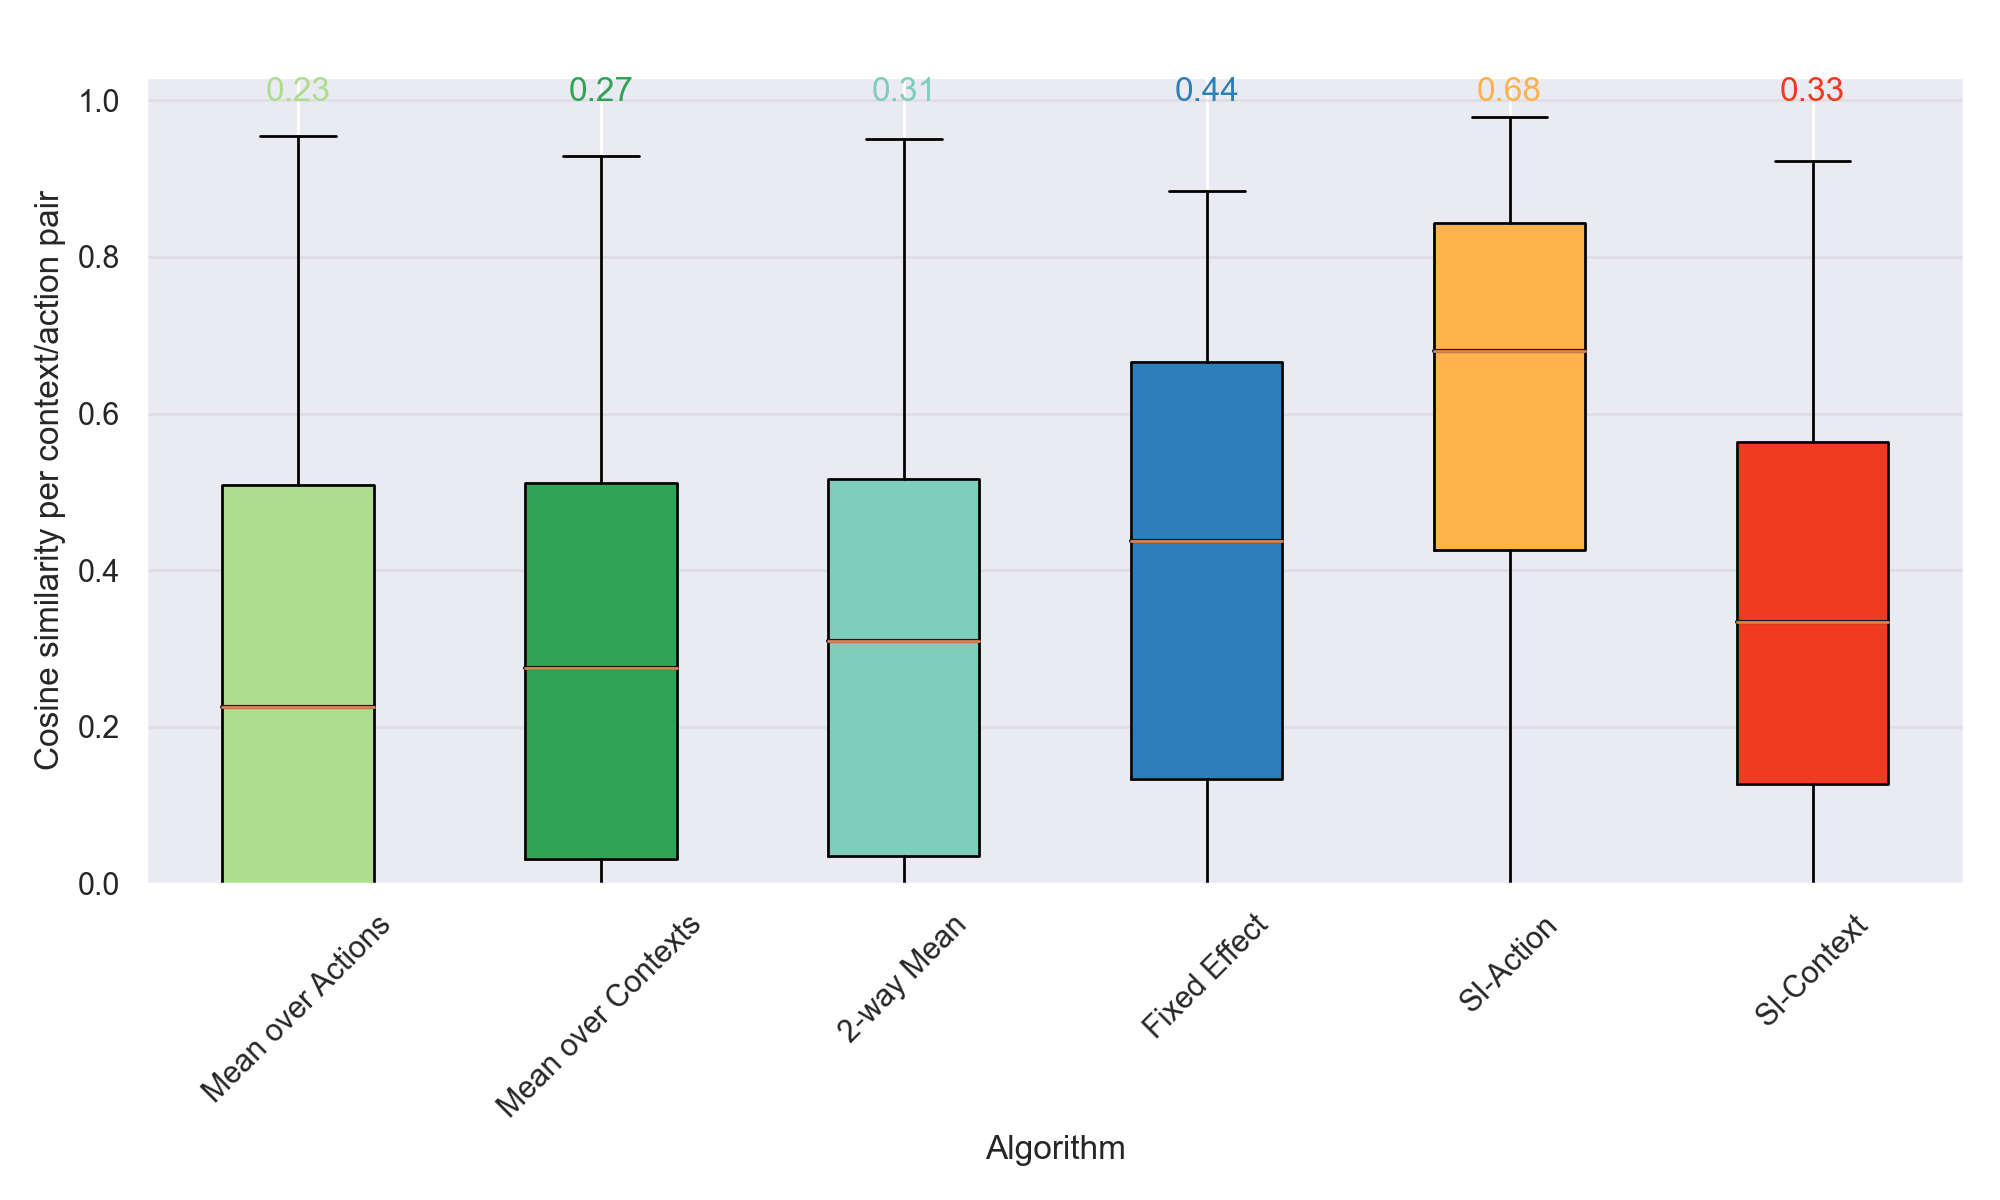
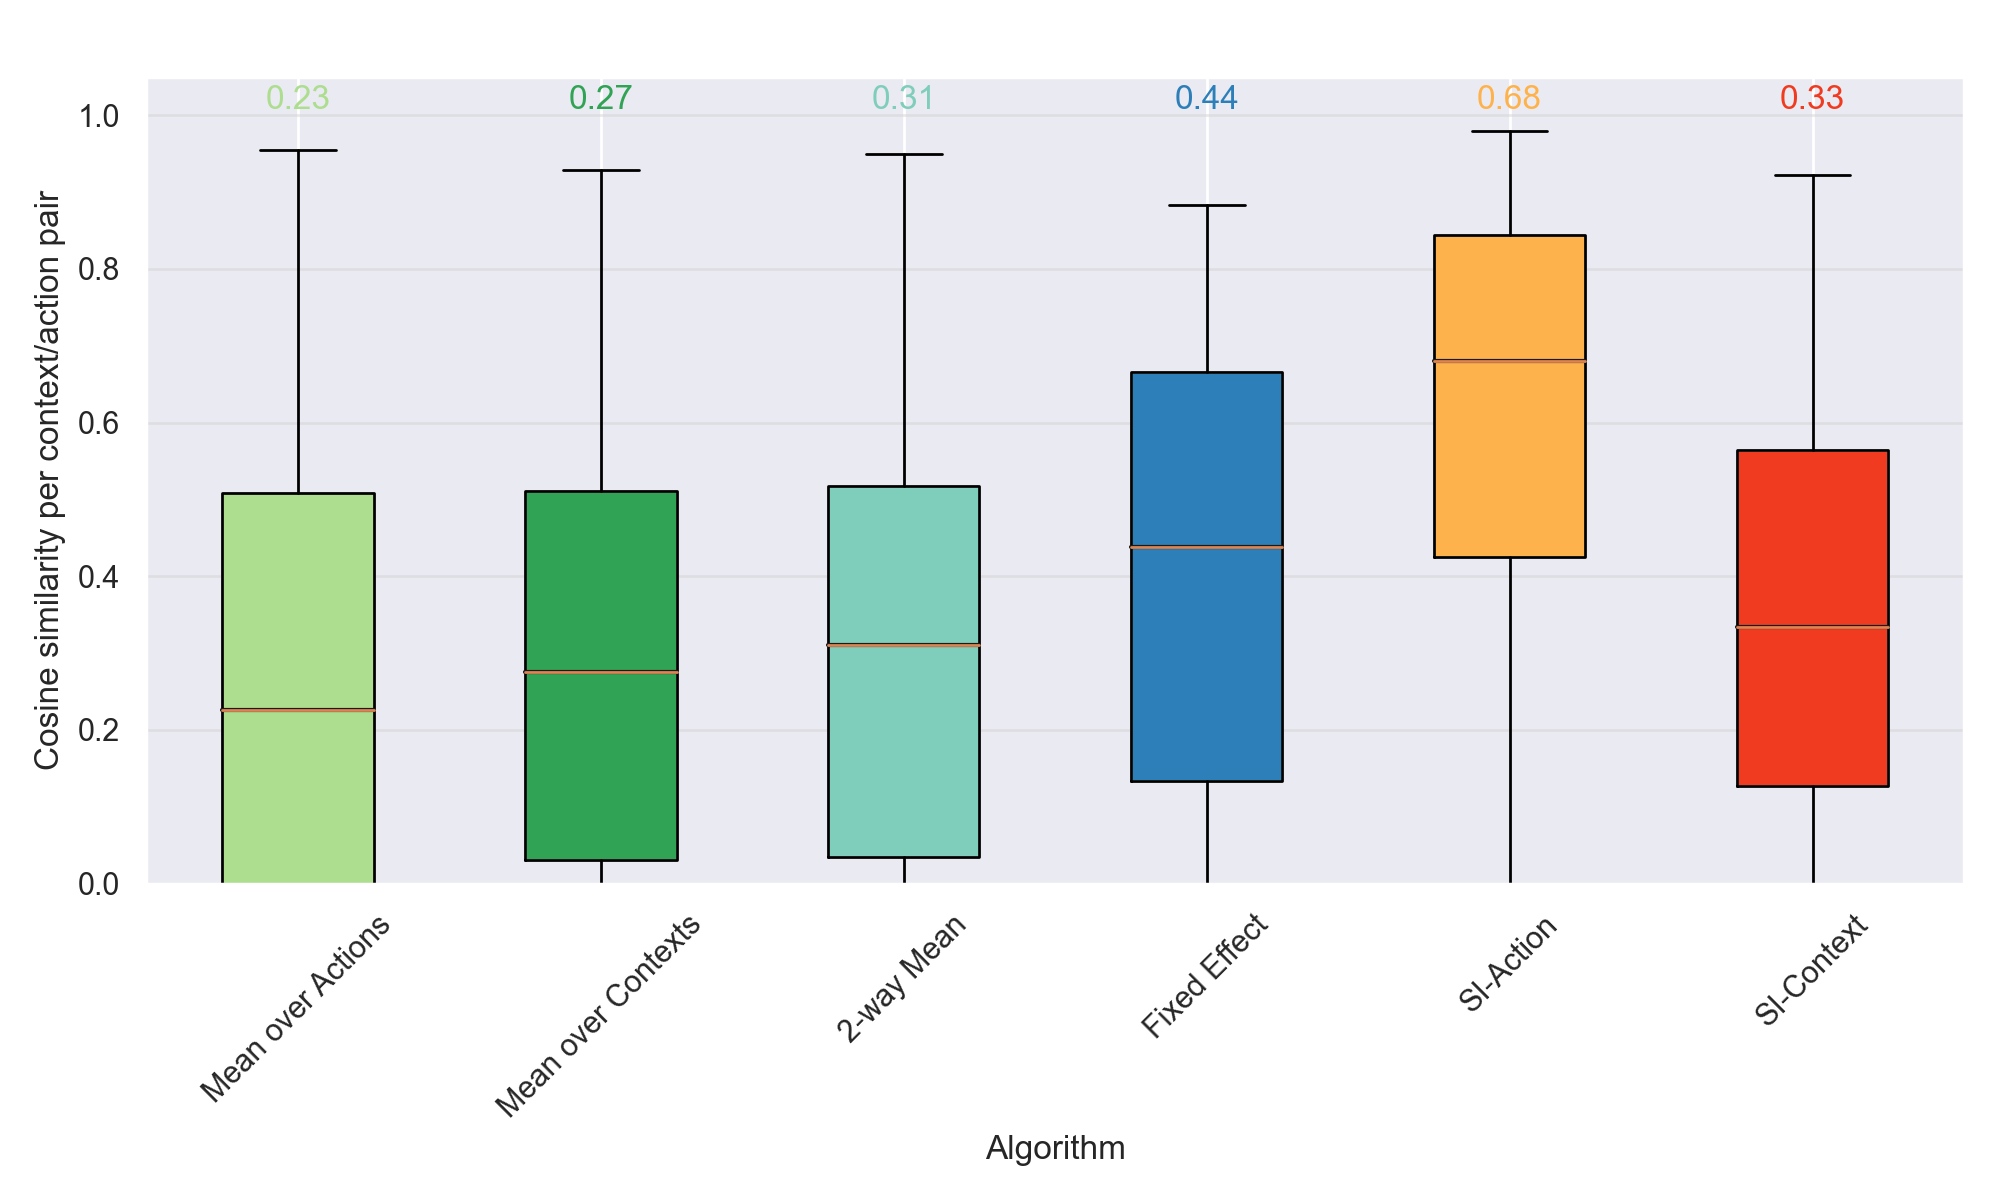
20 for mice

diff --git a/evaluation/main.py b/evaluation/main.py
@@ -17,7 +17,7 @@ def run(name, average, num_perts, num_cells=None):
     )
     # plot_availability_matrix(pm.gene_expression_df, savefig=pm.result_string)
     # pm.predict(impute_missforest, overwrite=False)
-    # pm.predict(impute_mice, overwrite=False)
+    pm.predict(impute_mice, overwrite=False)
     pm.predict(impute_unit_mean, overwrite=False)
     pm.predict(impute_intervention_mean, overwrite=False)
     pm.predict(impute_two_way_mean, overwrite=False)
@@ -49,7 +49,7 @@ if __name__ == '__main__':
     parser = argparse.ArgumentParser()
     parser.add_argument("--name", action="store", dest="name", default="level2", type=str)
     parser.add_argument("--average", action="store", default=True, type=bool)
-    parser.add_argument("--num_perts", action="store", default=100, type=int)
+    parser.add_argument("--num_perts", action="store", default=20, type=int)
     parser.add_argument("--num_cells", action="store", default=None, type=int)
     args = parser.parse_args()
 

diff --git a/evaluation/helpers/evaluation_manager.py b/evaluation/helpers/evaluation_manager.py
@@ -214,9 +214,9 @@ class EvaluationManager:
             xlabel='Algorithm',
             ylabel='Cosine similarity per context/action pair',
             title=self.prediction_manager.result_string,
-            top=1.03,
+            top=1.05,
             bottom=0,
-            scale=.03
+            scale=.04
         )
         plt.title("")
         self.savefig(f'cosine_boxplot')
@@ -234,7 +234,8 @@ class EvaluationManager:
             xlabel='Algorithm',
             ylabel='RMSE per context/action pair',
             bottom=0,
-            top=800,
+            top=1000,
+            scale=.04,
             title=self.prediction_manager.result_string,
         )
         plt.title("")
